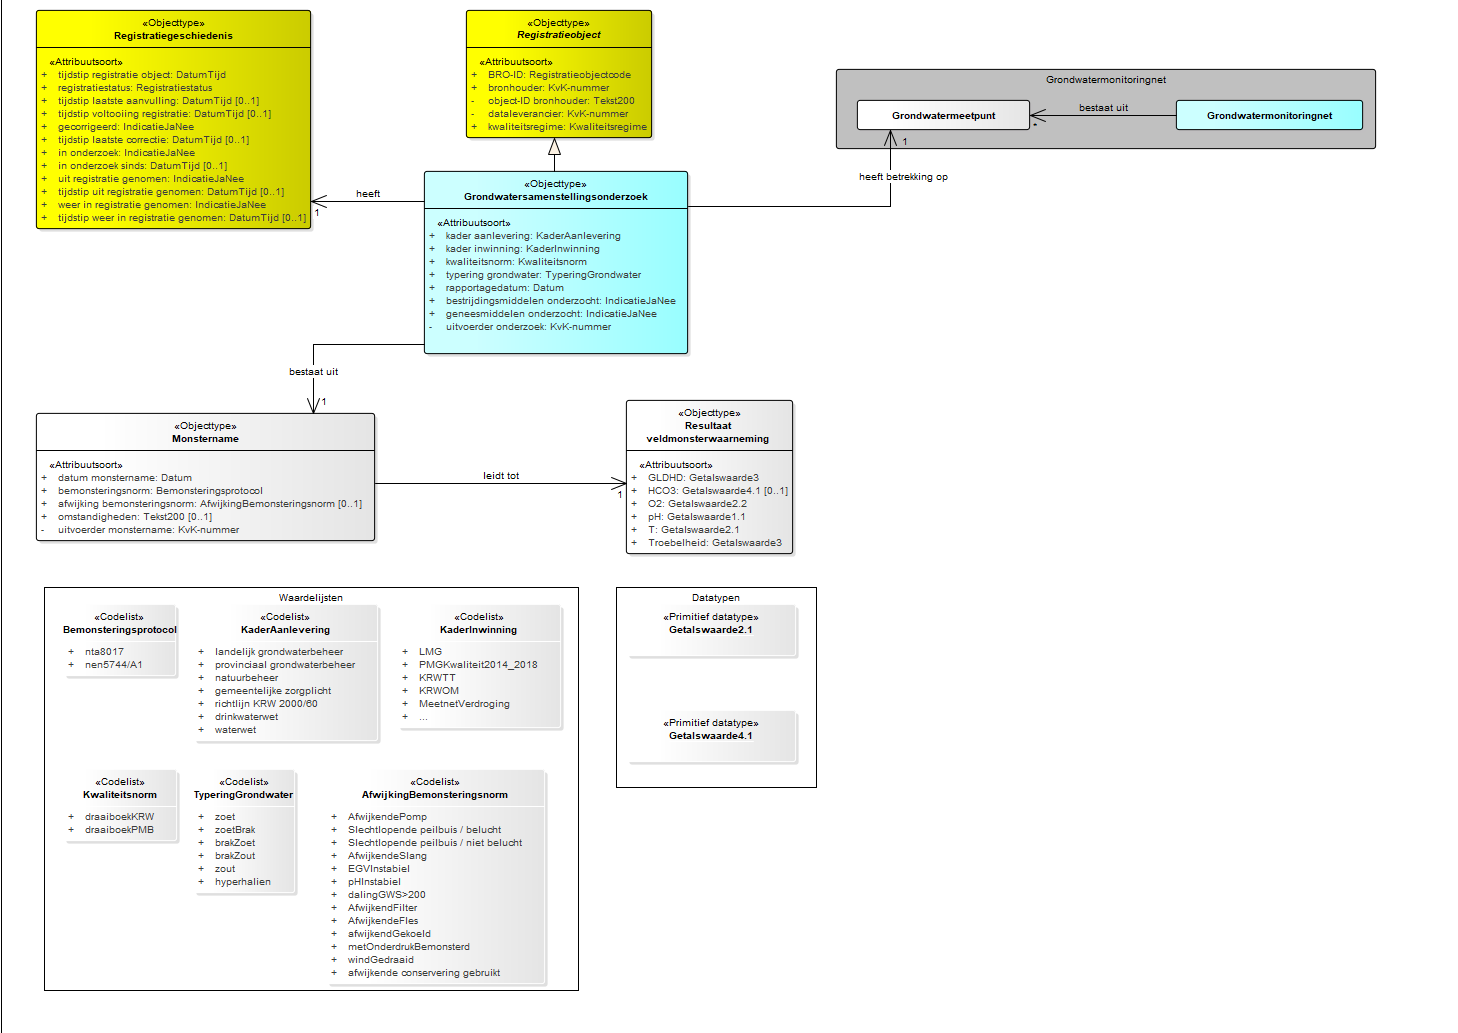
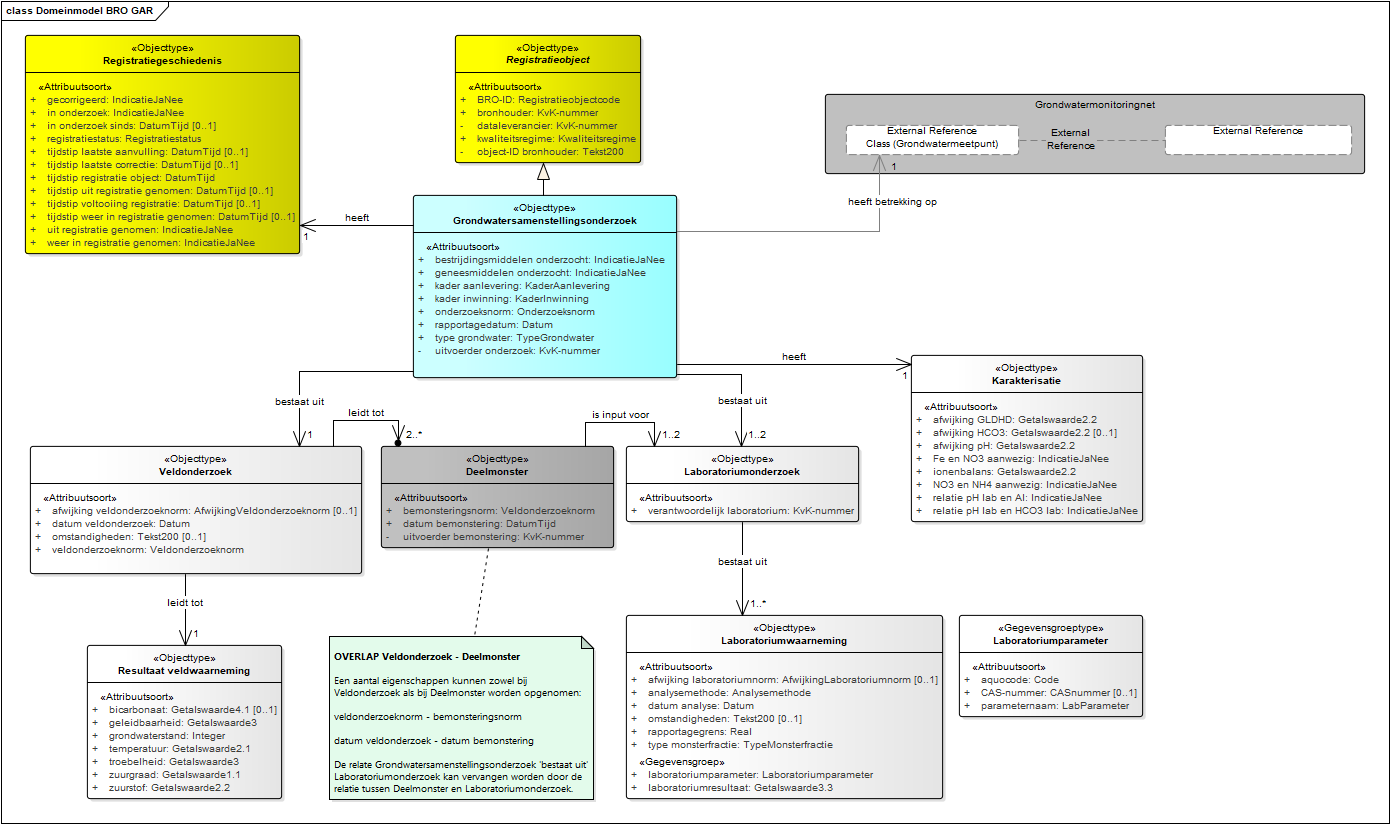
Added updated diagram and corrected fig caption

diff --git a/index.html b/index.html
@@ -94,9 +94,9 @@
     </section>
     <section id="domeinmodel-gmm">
       <h4>Domeinmodel Grondwatersamenstellingsonderzoek</h4>
-      <figure id="domeinmodel-epl" class="scalable">
+      <figure id="domeinmodel-gar" class="scalable">
         <img src="data/uml.png">
-        <figcaption>Domeinmodel Mijnbouwwetvergunning</figcaption>
+        <figcaption>Domeinmodel Grondwatersamenstellingsonderzoek</figcaption>
       </figure>
     </section>
   </section>
